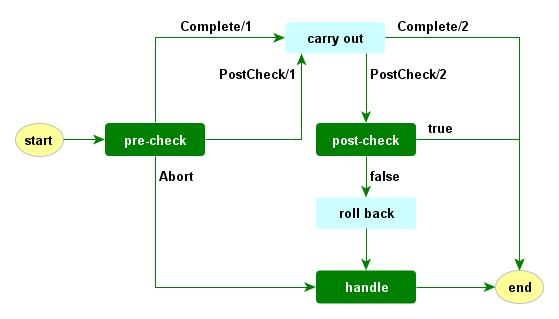
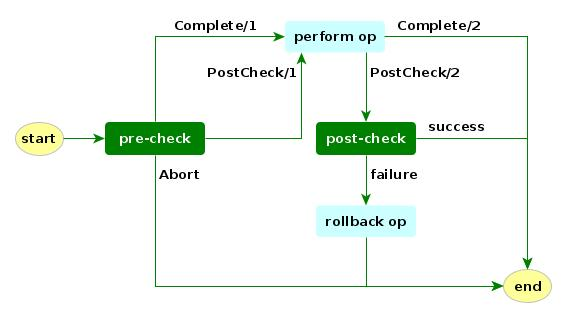
updating constrained guide, half done

Changed region(s): [[0.0304, 0.0566, 0.9428, 0.9623], [0.8515, 0.8774, 0.9732, 0.934], [0.0608, 0.4811, 0.0912, 0.5094]]

diff --git a/content/guides/constrained.html b/content/guides/constrained.html
@@ -9,119 +9,120 @@ sideMenuItems: >
   <li><a href="#Composing">Composing Constraints</a></li>
   <li><a href="#Aliases">Providing Aliases</a></li>
 ---
+
 <h1>Constrained User Guide</h1>
+
 <h2 id="Introduction">Introduction</h2>
-<p> This module enables the user of <em id="G4S">Graph for Scala</em> to seamlessly integrate predefined
-    or custom constraints. Constraints are meant to ensure certain graph properties during the whole lifetime
-    of graph instances which are not enforceable through type parameters. Examples for common constraints are
-    <em>connected, acyclic, tree, planar</em> etc.
-    Furthermore, the user is free to provide a custom constraint implementation covering any domain-specific
-    requirements.
+<p> This module enables the user of <em>Graph for Scala</em> to seamlessly integrate predefined
+    or custom constraints. A constraint aims at enforcing any graph properties during the whole lifetime
+    of a <code>Graph</code> that are not adequately enforceable by the type system.
+    Examples for common constraints are <code>Connected</code>, <code>Acyclic</code>, <code>Tree</code>, <code>Planar</code> etc.
+    Based on this module you are free to implement your own custom constraint to cover your domain-specific requirements.
 </p>
-<p> Predefined constraints are placed in <code>scalax.collection.constrained.constraints</code> but currently
-    few predefined constraints are provided. We would certainly be obliged if you contributed your constraint
-    implementation to enhance the library.
+<p> Predefined constraints are placed in <code>scalax.collection.constrained.constraints</code>.
+    We certainly appreciate your contributing any additional constraint that may be of interest to the community.
 </p>
-<p> Graphs may be constrained dynamically or statically. A <code>Graph</code> is called <em>dynamically</em>
-    constrained if a constraint has been passed to its factory method on creation or if it is a result of an
-    operation based on a dynamically constrained <code>Graph</code>:
+<p> To take advantage of constrained <code>Graph</code>s you need to change your <code>import</code> and
+    pass any predefined or custom constraint at <code>Graph</code> creation time like:
 </p>
-<pre class="prettyprint lang-scala nolinenum">import scalax.collection.GraphPredef._,
-       scalax.collection.GraphEdge._
-import scalax.collection.constrained._ // replaces scalax.collection.Graph
+<pre class="prettyprint lang-scala linenums">import scalax.collection.GraphPredef._
+import scalax.collection.GraphEdge._
+import scalax.collection.constrained.mutable.Graph
 import scalax.collection.constrained.constraints.Connected
 
-implicit val conf: Config = Connected  // ConstrainedConfig(...)
-val e = Graph(1~2, 3~4) // Graph()
-val g = Graph(1~2, 2~4) // Graph(1, 2, 4, 1~2, 2~4)
-val h = g + 3           // Graph(1, 2, 4, 1~2, 2~4)
-val i = g + 2~3         // Graph(1, 2, 3, 4, 1~2, 2~3, 2~4)
+implicit val conf: Config = Connected
+val e = Graph(1 ~ 2, 3 ~ 4) // Graph()
+val g = Graph(1 ~ 2, 2 ~ 4) // Graph(1, 2, 4, 1~2, 2~4)
+g += 3                      // Graph(1, 2, 4, 1~2, 2~4)
+g += 2 ~ 3                  // Graph(1, 2, 3, 4, 1~2, 2~3, 2~4)
 </pre>
-<p>In the above example, <code>e</code>, <code>g,</code> <code>h</code> and <code>i</code> are
-    constrained by the <code>Connected</code> constraint. <code>e</code> remains empty because the initial elements
-    would not result in a connected graph. Likewise, <code>h</code> becomes equal to <code>g</code>.
-    Alternatives of error handling are covered in the following chapters.
+<p>As to</p>
+<ol>
+    <li value="3">Choosing mutable constrained <code>Graph</code>.
+    </li>
+    <li value="6">Referring to the predefined constraint <code>Connected</code>.
+    </li>
+    <li>Creates a connected <code>Graph</code> using the above implicit value.
+        <code>e</code> becomes empty because the total of the passed elements violates the constraint.
+    </li>
+    <li>Creates a connected <code>Graph</code> accepting the passed elements.
+    </li>
+    <li>Adding <code>3</code> is silently rejected because it would create an isolated node.
+    </li>
+    <li>Adding <code>2 ~ 3</code> is carried out since the resulting graph remains connected.
+    </li>
+</ol>
+<p> If you are interested in whether or why an operation has been refused, simply call its verbose counterpart.
+    These additional methods/operators are denoted by a <code>_?</code>/<code>?</code> suffix
+    and return an <code>Either[ConstraintViolation, R]</code>
+    with <code>R</code> being the return type of the non-suffixed counterpart method/operation:
 </p>
+<pre class="prettyprint lang-scala linenums">
+val e = Graph.from_?(edges = 1 ~ 2, 3 ~ 4) // Left(...)
+val g = Graph.from_?(edges = 1 ~ 2, 2 ~ 4) // Right(Graph(1, 2, 4, 1~2, 2~4))
+g += 3                                     // Left(...)
+g += 2 ~ 3                                 // Right(Graph(1, 2, 3, 4, 1~2, 2~3, 2~4))
+</pre>
 <p> Constraints may also be combined by means of the <code>&amp;&amp;</code> and <code>||</code> operators.
 </p>
-<p> A <em>statically</em> constrained <code>Graph</code> incorporates all validations necessary to impose
-    the desired constraint on all operations. Thus no constraint needs to be passed to it on creation.
-    Clearly, any dynamically constrained <code>Graph</code> could also be implemented statically once the
-    constraint is known but dealing with constraints is more flexible and also cheaper to implement.
-    A static implementation might be worthwhile whenever we face broad use and/or need to restrict type
-    parameters such as in case of DAGs.
-</p>
 <p> <em id="G4S">Graph for Scala Constrained</em> is supplied as an extra module
-    (<code>Graph-constrained_&lt;ScalaVer&gt;-&lt;GraphVer&gt;.jar</code>) depending on
-    <code>Graph-core_&lt;ScalaVer&gt;-&lt;GraphVer&gt;.jar</code>.
+    (<code>graph-constrained_&lt;ScalaVer&gt;-&lt;Graph4ScalaVer&gt;.jar</code>).
 </p>
+
 <h2 id="UseCases">Use Cases</h2>
 <p> Among others, the constrained module is worth considering in the following situations:
 </p>
 <ol><li>You have to ensure that some constraints which cannot be achieved by type constructors
         are valid at any time for your <code>Graph</code> instances. Typical examples are acyclic graphs
-        or tree structures.</li>
-    <li>In addition to 1., you must cope with the population or modification of <code>Graph</code>
-        instances in an uncontrolled way such as
-    <ul><li>user input that is not fully validatable with respect to the <code>Graph</code> or</li>
-        <li>import of invalidated data from an external source.</li>
-    </ul></li>
-    <li>You want to log or monitor any kind of <code>Graph</code> creation/modification &#8211;
-        proper or improper.
+        or tree structures.
+    </li>
+    <li>In addition to 1., you need to control the population or modification of <code>Graph</code> instances
+        that occur in an uncontrolled way such as by
+        <ul><li>user input that is not fully validatable with respect to your <code>Graph</code> constraint or</li>
+            <li>import of invalidated data from an external source.</li>
+        </ul>
+    </li>
+    <li>You want to log or monitor <code>Graph</code> creation/modification &#8211;
+        with respect to being proper or improper.
     </li>
 </ol>
+
 <h2 id="Lifecycle">The Constraint Lifecycle</h2>
 <p> For the purpose of a comparison, let's first illustrate the "lifecycle" of an operation such as
-    <code>+</code> or <code>++</code> on a simple, non-constrained <code>Graph</code>:
+    <code>+</code> or <code>+=</code> on a non-constrained <code>Graph</code>:
 </p>
 <figure>
     <img alt="Empty Lifecycle" src="/img/guides/constrained/EmptyLifecycle.jpg">
-    <figcaption>Diagram: Empty Lifecycle of simple <code>Graph</code> operations.</figcaption>
+    <figcaption>Diagram: Trivial Lifecycle of non-constrained <code>Graph</code> operations.</figcaption>
 </figure>
 <p>In contrast, operations on constrained <code>Graph</code>s have the following sophisticated lifecycle:
 </p>
 <figure>
     <img alt="Lifecycle" src="/img/guides/constrained/Lifecycle.jpg">
-    <figcaption>Diagram: Empty Lifecycle of constrained <code>Graph</code> operations.</figcaption>
+    <figcaption>Diagram: Lifecycle of constrained <code>Graph</code> operations.</figcaption>
 </figure>
-<p> <em>Pre-check</em>, <em>post-check</em> and <em>handle</em> depict the three groups of callback-methods
-    to be defined by the implementer of the constraint class. Each group consists of a few concrete methods
-    such as <code>preAdd(node: N)</code>, <code>preAdd(edge: E[N])</code>etc.
+<p> <em>Pre-check</em> and <em>post-check</em> depict the two groups of callback-methods
+    to be defined by the implementer of the constraint. Each group consists of a few concrete methods
+    such as <code>preAdd(node: N)</code>, <code>preAdd(edge: E[N])</code> etc.
 </p>
-<p> The pre-check call-back methods are a means to inspect the underlying <code>Graph</code> and the arguments
+<p> The pre-check methods will be called to inspect the underlying <code>Graph</code> and the arguments
     of the operation before the operation takes place. They take control over whether the operation is to be
-    carried out or aborted (return: <code>Abort</code>). The carry-out case offers to carry out the operation
-    either with (return: <code>PostCheck</code>) or without (return: <code>Complete</code>) a subsequent
-    post-check.
+    performed or aborted (return for the latter <code>Abort</code>).
+    In case the pre-check method requests the operation to be performed, it may do so by either
+    returning <code>PostCheck</code>) or <code>Complete</code> telling whether post-check is to be called or skipped.
 </p>
 <p> In the post-check call-back methods one may inspect the underlying <code>Graph</code> as it would be
-    after the operation and take control over whether the operation is to be committed (return: <code>true</code>)
-    or rolled back (return: <code>false</code>).
+    after the operation and take control over whether the operation is to be committed (return: <code>Right</code>)
+    or rolled back (return: <code>Left</code>).
 </p>
-<p> Whenever the operation has been told by the constraint to be aborted, the appropriate constraint handler is called.
-    It is up to the implementer to throw an Exception in the handler, to leave it silent or undertake
-    any other desirable action.
+<p> Further, you may opt for silent or verbose operations:
+    All operations also known in non-constrained graphs will enforce the constraint but won't be responsive
+    about whether it was successful or has been rejected. Hence the term silent.
+    To retrieve information about success or rejection you need to call a counterpart operation.
+    These counterpart operations/methods have the same name plus a <code>?</code>/<code>_?</code>suffix.
+    For instance, <code>+=</code> its counterpart <code>+=?</code> do the same but are silent resp. verbose.
 </p>
-<h2 id="Altering">Altering Existing Constraints</h2>
-<p> Modifying an existing constraint is as easy as supplying a new companion object with the modified behavior.
-    For instance, to let the <code>onAdditionRefused</code> error handler of the predefined
-    <code>Acyclic</code> constraint throw an exception on improper <code>Graph</code> creation or
-    on addition of any improper elements, just proceed as follows:
-</p>
-<pre class="prettyprint lang-scala nolinenum">object AcyclicWithException extends ConstraintCompanion[Acyclic] {
-  def apply [N, E[X] <: EdgeLikeIn[X]] (self: Graph[N,E]) =
-    new Acyclic[N,E] (self) {
-      override def onAdditionRefused(refusedNodes: Iterable[N],
-                                     refusedEdges: Iterable[E[N]],
-                                     graph:        Graph[N,E]) = {
-        throw new CycleException("Addition refused: " +
-                  "nodes = " + refusedNodes + ", " +
-                  "edges = " + refusedEdges)
-      }
-    }
-}
-class CycleException(msg: String) extends IllegalArgumentException(msg)
-</pre>
+
 <h2 id="Implementing">Implementing New Constraints</h2>
 <p> If none of the supplied constraints suffices your needs you are encouraged to implement your own constraint.
 </p>
@@ -173,6 +174,7 @@ class CycleException(msg: String) extends IllegalArgumentException(msg)
 <p> Once again, if you feel the community could benefit of your constraint implementation, please consider
     contributing it.
 </p>
+
 <h2 id="Composing">Composing Constraints</h2>
 <p> Constraints may be composed by the <code>&amp;&amp;</code> and <code>||</code> operators like:
 </p>
